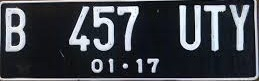
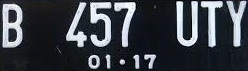
Working recognizer with low accuracy, not all chain code given

diff --git a/04-CarPlateRecognition/app/src/main/java/gatel/carplaterecognition/NumberRecognitionUtils.java b/04-CarPlateRecognition/app/src/main/java/gatel/carplaterecognition/NumberRecognitionUtils.java
@@ -8,7 +8,80 @@ import java.util.List;
 import java.util.Map;
 
 public class NumberRecognitionUtils {
-    private static final int[][] CHAIN_CODES = {{5, 5, 6, 6, 5, 6, 6, 6, 6, 6, 6, 7, 6, 6, 7, 7, 0, 0, 0, 0, 1, 1, 2, 2, 1, 2, 2, 2, 2, 2, 2, 3, 2, 2, 3, 3, 4, 4, 4, 4}, {5, 4, 4, 5, 4, 0, 0, 0, 0, 7, 6, 6, 6, 6, 6, 6, 6, 6, 6, 6, 6, 5, 4, 4, 4, 4, 6, 0, 0, 0, 0, 0, 0, 0, 0, 0, 0, 0, 2, 4, 4, 4, 4, 3, 2, 2, 2, 2, 2, 2, 2, 2, 2, 2, 2, 2, 2, 2, 4}, {5, 6, 0, 1, 0, 0, 0, 7, 7, 6, 6, 6, 5, 5, 5, 5, 5, 6, 5, 5, 6, 6, 0, 0, 0, 0, 0, 0, 0, 0, 2, 4, 4, 4, 4, 4, 3, 2, 1, 2, 1, 1, 1, 1, 1, 2, 2, 2, 2, 3, 3, 4, 4, 4, 4, 4}, {5, 6, 1, 0, 0, 0, 0, 7, 7, 6, 6, 5, 4, 5, 4, 4, 6, 0, 0, 0, 7, 7, 6, 6, 6, 5, 5, 4, 4, 4, 4, 3, 6, 6, 0, 0, 0, 0, 0, 1, 0, 2, 1, 2, 2, 2, 3, 3, 3, 1, 0, 1, 2, 2, 2, 3, 3, 4, 4, 4, 4, 4}, {5, 5, 6, 5, 5, 6, 5, 5, 5, 6, 6, 0, 0, 0, 0, 0, 0, 7, 6, 6, 6, 6, 0, 2, 2, 2, 2, 1, 0, 2, 4, 3, 2, 2, 2, 2, 2, 2, 2, 2, 2, 4}, {6, 6, 6, 6, 6, 6, 6, 0, 0, 0, 7, 7, 7, 6, 6, 6, 5, 5, 4, 4, 4, 3, 6, 6, 0, 0, 0, 0, 1, 0, 2, 1, 2, 2, 2, 2, 3, 3, 3, 4, 4, 3, 2, 2, 2, 1, 0, 0, 0, 0, 0, 2, 4, 4, 4, 4, 4, 4, 4}, {5, 5, 5, 6, 5, 6, 6, 6, 6, 6, 6, 6, 7, 6, 7, 7, 0, 0, 0, 0, 1, 1, 1, 2, 2, 2, 2, 3, 2, 4, 3, 4, 4, 4, 5, 5, 3, 2, 2, 1, 2, 1, 0, 1, 0, 0, 0, 7, 2, 3, 4, 4, 4, 4}, {6, 0, 0, 0, 0, 0, 0, 0, 7, 5, 5, 6, 5, 6, 5, 6, 5, 6, 5, 6, 5, 6, 6, 0, 2, 1, 2, 2, 1, 2, 1, 2, 1, 2, 1, 2, 1, 1, 2, 2, 4, 4, 4, 4, 4, 4, 4, 4, 4}, {5, 5, 6, 6, 6, 7, 7, 5, 5, 5, 6, 6, 6, 6, 7, 0, 7, 0, 0, 0, 0, 1, 0, 2, 1, 2, 2, 2, 3, 3, 3, 1, 2, 1, 2, 2, 3, 3, 4, 4, 4, 4}, {5, 5, 5, 6, 6, 6, 6, 7, 6, 0, 7, 0, 0, 0, 1, 1, 7, 6, 6, 5, 6, 5, 4, 5, 4, 4, 4, 3, 6, 7, 0, 0, 0, 0, 1, 1, 1, 2, 1, 2, 2, 2, 2, 2, 2, 2, 3, 2, 3, 3, 4, 4, 4, 4}};
+    private static final int[][] CHAIN_CODES = {
+        // 0
+        {6, 6, 6, 6, 6, 6, 6, 6, 6, 6, 6, 6, 6, 6, 6, 6, 6, 6, 6, 6, 7, 6, 7, 7, 0, 7, 0, 0, 0, 0, 1, 0, 1, 1, 2, 1, 2, 2, 2, 2, 2, 2, 2, 2, 2, 2, 2, 2, 2, 2, 2, 2, 2, 2, 2, 1, 2, 3, 3, 3, 4, 3, 4, 4, 4, 4, 4, 4, 5, 5, 5, 6, 5},
+        // 1
+        {6, 6, 6, 6, 6, 6, 6, 6, 7, 0, 1, 1, 0, 1, 1, 1, 7, 7, 6, 6, 6, 6, 6, 6, 6, 6, 6, 6, 6, 6, 6, 6, 6, 6, 6, 6, 6, 6, 6, 6, 6, 6, 6, 6, 6, 6, 6, 6, 6, 6, 6, 6, 6, 6, 6, 6, 6, 6, 6, 6, 6, 6, 6, 6, 6, 6, 6, 6, 6, 6, 6, 6, 6, 6, 6, 6, 6, 6, 6, 6, 6, 6, 6, 6, 6, 6, 6, 6, 7, 0, 0, 0, 0, 0, 0, 0, 1, 2, 2, 2, 2, 2, 2, 2, 2, 2, 2, 2, 2, 2, 2, 2, 2, 2, 2, 2, 2, 2, 2, 2, 2, 2, 2, 2, 2, 2, 2, 2, 2, 2, 2, 2, 2, 2, 2, 2, 2, 2, 2, 2, 2, 2, 2, 2, 2, 2, 2, 2, 2, 2, 2, 3, 2, 2, 2, 2, 2, 2, 2, 2, 2, 2, 2, 2, 2, 2, 2, 2, 2, 2, 2, 2, 2, 2, 2, 2, 2, 2, 2, 2, 3, 4, 4, 4, 4, 4, 4, 4, 4, 4, 5, 6, 5, 5, 5, 5, 4, 5, 5},
+        // 2
+        {5, 6, 0, 1, 0, 0, 0, 7, 7, 6, 6, 6, 5, 5, 5, 5, 5, 6, 5, 5, 6, 6, 0, 0, 0, 0, 0, 0, 0, 0, 2, 4, 4, 4, 4, 4, 3, 2, 1, 2, 1, 1, 1, 1, 1, 2, 2, 2, 2, 3, 3, 4, 4, 4, 4, 4},
+        // 3
+        {6, 6, 7, 0, 0, 0, 2, 1, 2, 1, 0, 7, 7, 7, 6, 6, 6, 6, 5, 5, 5, 6, 6, 7, 7, 7, 6, 6, 6, 6, 6, 5, 5, 4, 4, 3, 3, 2, 3, 4, 5, 6, 6, 6, 7, 7, 7, 0, 0, 0, 0, 0, 0, 1, 0, 1, 2, 1, 2, 2, 2, 2, 2, 2, 2, 3, 2, 2, 2, 1, 2, 1, 3, 2, 2, 2, 2, 3, 2, 2, 3, 3, 4, 3, 4, 4, 4, 5, 4, 4, 5, 6, 5, 5},
+        // 4
+        {6, 6, 6, 6, 7, 0, 0, 0, 0, 0, 0, 7, 7, 6, 6, 7, 0, 1, 2, 2, 1, 1, 2, 2, 2, 3, 3, 3, 4, 4, 5, 5, 3, 3, 2, 1, 2, 2, 1, 2, 1, 2, 1, 2, 2, 1, 2, 1, 2, 1, 2, 2, 2, 4, 4, 5, 5, 5, 6, 6, 5, 6, 6, 5, 6, 5, 6, 5, 6, 6, 5, 6, 5, 6, 5},
+        // 5
+        {6, 6, 6, 6, 6, 7, 0, 0, 1, 0, 0, 0, 7, 7, 6, 6, 5, 5, 5, 4, 4, 3, 3, 4, 6, 6, 7, 0, 7, 0, 0, 0, 1, 0, 1, 2, 1, 2, 2, 2, 3, 3, 3, 4, 4, 4, 3, 3, 2, 1, 0, 0, 0, 0, 0, 0, 1, 3, 4, 4, 4, 4, 4, 4, 4, 4, 5, 5},
+        // 6
+        {6, 6, 6, 6, 6, 6, 6, 6, 6, 6, 6, 6, 6, 6, 6, 6, 6, 6, 6, 6, 7, 6, 7, 7, 0, 0, 7, 0, 0, 1, 0, 1, 1, 1, 2, 2, 2, 2, 2, 2, 2, 2, 2, 2, 3, 3, 3, 4, 3, 4, 4, 4, 3, 3, 2, 1, 2, 2, 1, 1, 0, 7, 7, 7, 0, 0, 1, 2, 3, 2, 3, 3, 4, 4, 4, 4, 4, 4, 4, 5, 5, 6, 5},
+        // 7
+        {6, 7, 0, 0, 0, 0, 1, 0, 1, 0, 0, 0, 0, 0, 7, 7, 6, 5, 6, 6, 5, 5, 6, 6, 5, 6, 6, 6, 5, 6, 6, 6, 5, 6, 6, 6, 6, 6, 5, 6, 6, 6, 6, 6, 6, 6, 6, 6, 6, 6, 6, 7, 0, 0, 0, 1, 2, 2, 2, 2, 2, 2, 2, 2, 2, 2, 2, 2, 2, 1, 2, 2, 2, 2, 2, 1, 2, 2, 1, 2, 2, 2, 1, 2, 1, 2, 1, 2, 2, 1, 1, 2, 2, 2, 2, 2, 2, 3, 4, 4, 4, 4, 4, 4, 4, 4, 4, 4, 4, 4, 4, 4, 4, 4, 4, 4, 4, 6, 6, 6, 6, 5},
+        // 8
+        {6, 6, 6, 6, 6, 6, 6, 6, 6, 6, 6, 6, 6, 6, 6, 6, 6, 7, 6, 6, 7, 6, 7, 6, 7, 7, 7, 7, 6, 5, 5, 5, 6, 5, 6, 5, 6, 5, 6, 6, 6, 5, 6, 6, 6, 6, 6, 6, 6, 6, 6, 6, 7, 6, 6, 6, 6, 7, 6, 6, 7, 6, 7, 7, 7, 7, 7, 7, 7, 0, 7, 0, 7, 0, 0, 0, 0, 0, 0, 0, 0, 0, 0, 1, 0, 0, 1, 0, 1, 1, 0, 1, 1, 2, 1, 1, 2, 1, 2, 1, 2, 2, 2, 1, 2, 2, 2, 2, 2, 2, 2, 2, 2, 2, 2, 2, 3, 2, 2, 2, 3, 2, 2, 3, 2, 3, 3, 3, 3, 2, 2, 1, 2, 1, 1, 2, 1, 2, 1, 2, 2, 1, 2, 2, 2, 2, 2, 2, 2, 2, 2, 2, 2, 2, 2, 2, 2, 2, 3, 2, 2, 3, 2, 3, 2, 3, 3, 3, 3, 3, 4, 3, 4, 3, 4, 4, 3, 4, 4, 4, 4, 4, 4, 5, 4, 4, 4, 5, 4, 5, 4, 5, 5, 5, 5, 5, 5, 5, 6, 5, 6, 6, 5},
+        // 9
+        {6, 6, 6, 6, 6, 6, 7, 6, 6, 7, 7, 7, 0, 0, 0, 7, 0, 7, 7, 6, 6, 6, 5, 5, 4, 4, 4, 3, 3, 4, 4, 6, 6, 6, 7, 7, 7, 0, 0, 0, 0, 0, 1, 0, 1, 2, 1, 2, 2, 2, 2, 2, 2, 2, 2, 2, 2, 2, 2, 2, 2, 2, 2, 2, 2, 2, 3, 2, 3, 2, 3, 4, 4, 3, 4, 4, 5, 4, 4, 5, 6, 5, 5},
+        // A
+        {6, 6, 0, 0, 0, 0, 2, 2, 1, 1, 0, 0, 0, 7, 7, 7, 6, 7, 0, 1, 2, 2, 2, 3, 2, 2, 2, 3, 2, 2, 2, 3, 2, 2, 2, 3, 2, 2, 2, 2, 3, 2, 2, 2, 2, 3, 2, 3, 4, 4, 5, 6, 6, 6, 6, 5, 6, 6, 6, 6, 5, 6, 6, 6, 6, 5, 6, 6, 6, 6, 5, 6, 6, 6, 6, 5},
+        // B
+        {6, 6, 6, 6, 6, 6, 6, 6, 6, 6, 6, 6, 6, 6, 6, 6, 6, 6, 6, 6, 6, 6, 6, 6, 6, 6, 6, 6, 6, 6, 6, 6, 6, 6, 6, 6, 6, 6, 6, 6, 7, 0, 0, 0, 0, 0, 0, 0, 0, 0, 0, 1, 0, 1, 0, 1, 1, 2, 1, 2, 2, 2, 2, 2, 2, 2, 2, 2, 2, 2, 3, 3, 2, 2, 2, 2, 1, 2, 1, 2, 2, 2, 2, 2, 2, 2, 2, 2, 3, 2, 2, 3, 3, 3, 4, 4, 3, 4, 4, 4, 4, 4, 4, 4, 4, 4, 4, 5},
+        // C
+        {6, 6, 6, 6, 7, 6, 6, 6, 7, 7, 0, 7, 0, 0, 0, 0, 1, 0, 1, 1, 1, 2, 2, 2, 3, 4, 5, 6, 5, 5, 4, 4, 4, 3, 3, 2, 2, 2, 2, 2, 2, 2, 2, 2, 2, 2, 2, 2, 2, 2, 2, 2, 2, 1, 2, 1, 1, 1, 0, 7, 7, 7, 6, 7, 0, 1, 2, 2, 2, 3, 3, 3, 4, 3, 4, 4, 4, 5, 4, 5, 5, 5, 6, 5, 6, 6, 6, 6, 6, 6, 6, 6, 6, 6, 6, 6, 6, 6, 5},
+        // D
+        {6, 6, 6, 6, 6, 6, 6, 6, 6, 6, 6, 6, 6, 6, 6, 6, 6, 6, 6, 6, 6, 6, 6, 6, 6, 6, 6, 7, 0, 0, 0, 0, 0, 0, 0, 0, 0, 0, 1, 0, 2, 1, 2, 1, 2, 1, 2, 2, 2, 2, 2, 2, 2, 3, 2, 1, 2, 2, 2, 2, 2, 2, 2, 2, 2, 4, 3, 4, 4, 3, 3, 4, 4, 4, 3, 4, 4, 4, 4, 5, 5},
+        // E
+        {},
+        // F
+        {6, 6, 6, 6, 6, 6, 6, 6, 6, 6, 6, 6, 6, 6, 6, 6, 6, 6, 6, 0, 0, 1, 2, 2, 2, 2, 2, 2, 2, 2, 2, 1, 1, 1, 1, 0, 0, 7, 0, 0, 1, 1, 2, 3, 4, 4, 4, 4, 4, 4, 4, 3, 3, 2, 2, 2, 2, 2, 2, 2, 1, 1, 0, 0, 0, 0, 0, 0, 0, 1, 2, 3, 4, 4, 4, 4, 4, 4, 4, 4, 4, 4, 4, 5, 6, 6, 6, 6, 6, 6, 6, 6, 6, 6, 5},
+        // G
+        {6, 6, 6, 6, 6, 6, 6, 6, 6, 6, 6, 6, 6, 6, 6, 6, 6, 6, 6, 6, 7, 7, 7, 7, 0, 0, 0, 0, 0, 0, 1, 1, 1, 2, 1, 1, 2, 2, 2, 1, 2, 3, 4, 4, 4, 4, 4, 4, 5, 6, 7, 6, 7, 5, 6, 5, 4, 3, 2, 3, 2, 2, 2, 2, 2, 2, 2, 2, 2, 2, 2, 2, 2, 1, 3, 2, 1, 1, 7, 0, 7, 6, 6, 7, 0, 0, 0, 1, 2, 2, 2, 2, 1, 4, 3, 4, 4, 3, 3, 4, 4, 4, 4, 4, 5, 4, 5, 5, 6, 5},
+        // H
+        {},
+        // I
+        {},
+        // J
+        {6, 6, 6, 6, 6, 7, 6, 6, 6, 7, 6, 7, 6, 7, 7, 6, 7, 7, 7, 0, 7, 7, 0, 7, 0, 7, 0, 0, 0, 7, 0, 0, 0, 0, 0, 0, 0, 1, 0, 0, 0, 1, 0, 0, 1, 1, 0, 1, 1, 1, 1, 1, 1, 2, 1, 2, 1, 2, 2, 1, 2, 2, 2, 2, 2, 2, 2, 2, 2, 2, 2, 2, 2, 2, 2, 2, 2, 2, 2, 2, 2, 2, 2, 2, 2, 2, 2, 2, 2, 2, 2, 2, 2, 2, 2, 2, 2, 2, 2, 2, 2, 2, 2, 2, 2, 2, 2, 2, 2, 2, 2, 2, 2, 2, 2, 2, 2, 2, 2, 2, 2, 2, 2, 2, 2, 2, 2, 2, 2, 2, 3, 4, 4, 4, 4, 5, 6, 6, 6, 6, 6, 6, 6, 6, 6, 6, 6, 6, 6, 6, 6, 6, 6, 6, 6, 6, 6, 6, 6, 6, 6, 6, 6, 6, 6, 6, 6, 6, 6, 6, 6, 6, 6, 6, 6, 6, 6, 6, 6, 6, 6, 6, 6, 6, 6, 6, 6, 6, 6, 6, 6, 6, 6, 6, 6, 6, 6, 6, 6, 6, 6, 6, 6, 6, 6, 5, 6, 5, 6, 5, 5, 5, 5, 5, 5, 4, 5, 4, 4, 4, 5, 4, 4, 4, 4, 3, 4, 4, 4, 3, 4, 3, 3, 4, 3, 3, 2, 3, 3, 2, 3, 2, 2, 2, 2, 3, 2, 2, 3, 4, 4, 4, 4, 5},
+        // K
+        {6, 6, 6, 6, 6, 6, 6, 6, 6, 6, 6, 6, 6, 6, 6, 6, 6, 6, 6, 6, 6, 6, 6, 6, 6, 6, 6, 6, 6, 6, 6, 6, 6, 6, 6, 6, 6, 6, 6, 6, 6, 6, 6, 6, 6, 6, 6, 6, 6, 6, 6, 6, 6, 6, 6, 6, 6, 7, 6, 6, 6, 6, 6, 6, 6, 6, 6, 6, 6, 6, 6, 6, 6, 6, 6, 6, 6, 6, 6, 6, 6, 6, 6, 6, 7, 0, 0, 0, 0, 0, 0, 0, 1, 2, 2, 2, 2, 2, 2, 2, 2, 2, 2, 2, 2, 2, 2, 2, 2, 2, 2, 2, 2, 3, 2, 2, 2, 2, 2, 2, 2, 2, 2, 2, 2, 2, 1, 1, 1, 0, 0, 7, 7, 6, 7, 6, 7, 6, 7, 6, 7, 6, 6, 7, 6, 7, 6, 7, 6, 7, 6, 7, 6, 7, 6, 7, 6, 7, 6, 6, 7, 6, 7, 6, 7, 6, 7, 7, 0, 0, 0, 0, 0, 0, 0, 2, 2, 2, 3, 2, 2, 3, 2, 3, 2, 3, 2, 3, 2, 2, 3, 2, 3, 2, 3, 2, 3, 2, 3, 2, 3, 2, 2, 3, 2, 3, 2, 3, 2, 3, 2, 3, 2, 2, 3, 2, 3, 2, 3, 2, 2, 2, 2, 1, 2, 1, 2, 2, 1, 2, 2, 1, 2, 1, 2, 2, 1, 2, 2, 1, 2, 1, 2, 2, 1, 2, 2, 1, 2, 1, 2, 2, 1, 2, 2, 1, 2, 1, 2, 2, 2, 4, 4, 4, 4, 4, 4, 4, 4, 5, 6, 5, 6, 6, 5, 6, 6, 5, 6, 5, 6, 6, 5, 6, 6, 5, 6, 6, 5, 6, 5, 6, 6, 5, 6, 6, 5, 6, 5, 6, 6, 5, 6, 6, 5, 6, 5, 5, 4, 3, 2, 2, 2, 2, 2, 2, 2, 2, 2, 2, 2, 2, 2, 2, 2, 2, 2, 2, 2, 2, 2, 2, 2, 2, 2, 2, 2, 2, 3, 2, 2, 2, 2, 2, 2, 2, 2, 3, 4, 4, 4, 4, 4, 4, 5},
+        // L
+        {},
+        // M
+        {6, 6, 6, 6, 6, 6, 6, 6, 6, 6, 6, 6, 6, 6, 6, 6, 6, 6, 7, 6, 6, 6, 6, 6, 6, 6, 6, 6, 6, 6, 6, 6, 6, 6, 6, 6, 6, 6, 6, 6, 6, 7, 7, 0, 0, 0, 1, 2, 2, 2, 2, 2, 2, 2, 2, 2, 2, 2, 2, 2, 3, 2, 2, 2, 2, 2, 1, 0, 0, 7, 6, 6, 6, 7, 6, 6, 6, 7, 6, 6, 6, 6, 7, 1, 1, 2, 2, 2, 2, 2, 1, 2, 2, 2, 2, 2, 1, 1, 7, 7, 6, 6, 6, 6, 6, 6, 6, 6, 6, 6, 6, 6, 6, 6, 6, 6, 6, 6, 7, 0, 0, 0, 0, 1, 2, 2, 2, 2, 2, 2, 2, 2, 2, 2, 2, 3, 2, 2, 2, 2, 2, 2, 2, 2, 2, 2, 2, 2, 2, 2, 2, 2, 2, 2, 2, 2, 2, 2, 2, 2, 2, 2, 2, 3, 2, 3, 4, 4, 4, 4, 5, 6, 6, 6, 5, 6, 6, 6, 6, 6, 5, 6, 6, 6, 5, 6, 6, 6, 6, 5, 4, 4, 3, 2, 3, 2, 2, 3, 2, 2, 2, 3, 2, 2, 2, 2, 3, 2, 2, 2, 3, 3, 4, 4, 4, 4, 5},
+        // N
+        {},
+        // O
+        {},
+        // P
+        {6, 6, 6, 6, 6, 6, 6, 6, 6, 6, 6, 6, 6, 6, 6, 6, 6, 6, 6, 6, 6, 6, 6, 6, 6, 6, 7, 0, 0, 1, 3, 2, 2, 2, 2, 2, 2, 2, 2, 1, 1, 0, 0, 1, 0, 0, 1, 1, 0, 1, 2, 3, 2, 2, 2, 2, 2, 3, 2, 3, 3, 3, 4, 4, 4, 4, 4, 4, 4, 4, 5},
+        // Q
+        {},
+        // R
+        {},
+        // S
+        {6, 6, 6, 6, 7, 6, 6, 6, 6, 7, 6, 6, 7, 7, 6, 7, 7, 7, 6, 7, 7, 7, 7, 6, 7, 7, 7, 7, 7, 7, 7, 7, 7, 6, 7, 7, 7, 7, 7, 7, 7, 6, 7, 7, 7, 7, 6, 6, 7, 6, 6, 6, 6, 6, 5, 6, 6, 5, 5, 5, 5, 5, 4, 5, 4, 4, 4, 4, 4, 3, 4, 3, 4, 3, 3, 2, 3, 2, 3, 2, 2, 2, 3, 3, 4, 4, 4, 4, 5, 4, 5, 6, 6, 6, 7, 6, 6, 6, 7, 6, 7, 6, 7, 7, 7, 7, 7, 7, 0, 7, 0, 7, 0, 0, 0, 7, 0, 0, 0, 1, 0, 0, 0, 0, 0, 1, 0, 1, 0, 1, 1, 1, 1, 1, 1, 2, 1, 2, 1, 2, 2, 2, 2, 2, 2, 2, 2, 2, 2, 2, 2, 2, 3, 2, 2, 3, 2, 3, 3, 2, 3, 3, 3, 3, 3, 3, 2, 3, 3, 3, 3, 3, 3, 3, 2, 3, 3, 3, 3, 3, 3, 2, 3, 3, 3, 3, 2, 3, 3, 2, 3, 2, 3, 2, 2, 2, 2, 2, 1, 2, 2, 1, 1, 1, 0, 1, 0, 0, 0, 0, 0, 0, 0, 0, 7, 0, 7, 7, 7, 7, 6, 6, 7, 6, 6, 7, 6, 7, 0, 0, 0, 0, 0, 0, 1, 2, 2, 2, 2, 2, 3, 2, 2, 3, 2, 3, 2, 3, 2, 3, 3, 3, 3, 4, 3, 4, 3, 4, 4, 3, 4, 4, 4, 4, 4, 4, 4, 5, 4, 4, 4, 5, 4, 5, 4, 5, 4, 5, 5, 5, 6, 5, 5, 6, 5, 6, 6, 6, 5},
+        // T
+        {6, 6, 7, 0, 0, 0, 0, 0, 7, 7, 6, 6, 6, 6, 6, 6, 6, 6, 6, 6, 6, 6, 6, 6, 6, 6, 6, 6, 6, 6, 6, 6, 6, 6, 6, 6, 6, 6, 6, 6, 6, 6, 6, 6, 6, 6, 7, 7, 0, 1, 1, 2, 2, 2, 2, 2, 2, 2, 2, 2, 2, 2, 2, 2, 2, 2, 2, 2, 2, 2, 2, 2, 2, 2, 2, 2, 2, 2, 2, 2, 2, 2, 2, 2, 2, 2, 2, 1, 0, 1, 7, 1, 0, 1, 2, 2, 2, 3, 4, 4, 4, 5, 4, 4, 4, 4, 4, 4, 4, 4, 4, 4, 4, 4, 4, 4, 5},
+        // U
+        {6, 6, 6, 6, 6, 6, 6, 6, 6, 6, 6, 6, 6, 6, 6, 6, 6, 6, 6, 6, 6, 6, 6, 6, 6, 6, 6, 6, 6, 6, 6, 6, 6, 6, 6, 7, 6, 6, 6, 6, 6, 6, 6, 6, 6, 6, 6, 6, 6, 6, 6, 6, 6, 6, 6, 6, 6, 6, 6, 6, 6, 6, 6, 6, 6, 6, 7, 6, 6, 7, 6, 6, 7, 7, 6, 7, 7, 7, 7, 7, 0, 7, 0, 7, 0, 7, 0, 0, 0, 0, 0, 0, 0, 0, 0, 1, 0, 0, 1, 1, 0, 1, 0, 1, 1, 1, 2, 1, 1, 2, 1, 2, 2, 1, 2, 2, 2, 2, 2, 2, 2, 2, 2, 2, 2, 2, 2, 2, 2, 2, 2, 2, 2, 2, 2, 2, 2, 2, 2, 2, 2, 2, 2, 2, 2, 2, 2, 2, 2, 2, 2, 2, 2, 2, 2, 3, 2, 2, 2, 2, 2, 2, 2, 2, 2, 2, 2, 2, 2, 2, 2, 2, 2, 2, 2, 2, 2, 2, 2, 2, 2, 2, 2, 3, 4, 4, 4, 4, 4, 4, 4, 5, 6, 6, 6, 6, 6, 6, 6, 6, 6, 6, 6, 6, 6, 6, 6, 6, 6, 6, 6, 6, 6, 7, 6, 6, 6, 6, 6, 6, 6, 6, 6, 6, 6, 6, 6, 6, 6, 6, 6, 6, 6, 6, 6, 6, 6, 6, 6, 6, 6, 6, 6, 6, 6, 6, 6, 6, 6, 6, 6, 6, 6, 6, 6, 6, 6, 6, 6, 6, 5, 6, 5, 5, 5, 5, 5, 4, 4, 4, 4, 4, 4, 4, 4, 3, 4, 3, 3, 3, 2, 3, 2, 3, 2, 2, 2, 2, 2, 2, 2, 2, 2, 2, 2, 2, 2, 2, 2, 2, 2, 2, 2, 2, 2, 3, 2, 2, 2, 2, 2, 2, 2, 2, 2, 2, 2, 2, 2, 2, 2, 2, 2, 2, 2, 2, 2, 2, 2, 2, 2, 2, 2, 2, 2, 2, 2, 2, 2, 2, 2, 2, 2, 2, 2, 2, 2, 2, 2, 2, 2, 3, 4, 4, 4, 4, 4, 5, 4, 5},
+        // V
+        {},
+        // W
+        {},
+        // X
+        {},
+        // Y
+        {6, 7, 6, 6, 7, 6, 6, 7, 6, 6, 7, 6, 6, 7, 6, 6, 7, 6, 7, 6, 6, 6, 6, 6, 6, 6, 6, 6, 6, 6, 6, 6, 6, 6, 6, 6, 6, 6, 6, 6, 6, 6, 7, 0, 0, 0, 1, 2, 2, 2, 2, 2, 2, 2, 2, 2, 2, 2, 2, 2, 2, 2, 2, 2, 2, 2, 2, 2, 2, 2, 2, 1, 2, 2, 1, 2, 2, 1, 2, 2, 1, 2, 2, 2, 1, 2, 2, 1, 2, 3, 4, 4, 4, 5, 6, 6, 6, 6, 5, 6, 6, 6, 5, 6, 5, 4, 4, 3, 2, 3, 2, 2, 3, 2, 2, 2, 2, 3, 3, 4, 4, 5},
+        // Z
+        {}
+    };
     private static Map<Integer, List<Integer>> CHAIN_CODE_MAP = new HashMap<>();
     static {
         for (int i = 0; i < CHAIN_CODES.length; ++i) {

diff --git a/04-CarPlateRecognition/app/src/main/java/gatel/carplaterecognition/MainActivity.java b/04-CarPlateRecognition/app/src/main/java/gatel/carplaterecognition/MainActivity.java
@@ -4,7 +4,9 @@ import android.app.Activity;
 import android.content.Intent;
 import android.graphics.Bitmap;
 import android.graphics.BitmapFactory;
+import android.net.Uri;
 import android.os.Bundle;
+import android.os.Environment;
 import android.text.Editable;
 import android.text.TextWatcher;
 import android.util.Log;
@@ -13,11 +15,16 @@ import android.widget.EditText;
 import android.widget.ImageView;
 import android.widget.TextView;
 
+import java.io.ByteArrayOutputStream;
+import java.io.File;
 import java.io.FileNotFoundException;
+import java.io.FileOutputStream;
 import java.io.IOException;
 import java.io.InputStream;
+import java.util.ArrayList;
 import java.util.List;
 import java.util.Objects;
+import java.util.Random;
 
 public class MainActivity extends Activity {
 
@@ -88,13 +95,45 @@ public class MainActivity extends Activity {
                 ImageUtils.calculateThreshold(bitmap);
 
                 Bitmap binaryBitmap = ImageUtils.getBinaryImage(bitmap);
-                inputImage.setImageBitmap(binaryBitmap);
+                inputImage.setImageBitmap(bitmap);
 
                 final TextView blackThreshold = (TextView) findViewById(R.id.whiteThreshold);
                 blackThreshold.setText(Integer.toString(PatternRecognizerUtils.BLACK_THRESHOLD));
 
-//                List<Integer> recognizedValues = NumberRecognitionUtils.recognizeBitmap(binaryBitmap);
-//                numRec.setText(Objects.toString(recognizedValues));
+                List<Integer> recognizedValues = NumberRecognitionUtils.recognizeBitmap(binaryBitmap);
+                List<String> realValues = new ArrayList<>();
+                for(int i = 0; i < recognizedValues.size(); ++i) {
+                    switch (recognizedValues.get(i)) {
+                        case 10 : realValues.add("A"); break;
+                        case 11 : realValues.add("B"); break;
+                        case 12 : realValues.add("C"); break;
+                        case 13 : realValues.add("D"); break;
+                        case 14 : realValues.add("E"); break;
+                        case 15 : realValues.add("F"); break;
+                        case 16 : realValues.add("G"); break;
+                        case 17 : realValues.add("H"); break;
+                        case 18 : realValues.add("I"); break;
+                        case 19 : realValues.add("J"); break;
+                        case 20 : realValues.add("K"); break;
+                        case 21 : realValues.add("L"); break;
+                        case 22 : realValues.add("M"); break;
+                        case 23 : realValues.add("N"); break;
+                        case 24 : realValues.add("O"); break;
+                        case 25 : realValues.add("P"); break;
+                        case 26 : realValues.add("Q"); break;
+                        case 27 : realValues.add("R"); break;
+                        case 28 : realValues.add("S"); break;
+                        case 29 : realValues.add("T"); break;
+                        case 30 : realValues.add("U"); break;
+                        case 31 : realValues.add("V"); break;
+                        case 32 : realValues.add("W"); break;
+                        case 33 : realValues.add("X"); break;
+                        case 34 : realValues.add("Y"); break;
+                        case 35 : realValues.add("Z"); break;
+                        default : realValues.add(recognizedValues.get(i).toString());
+                    }
+                }
+                numRec.setText(Objects.toString(realValues));
             } catch (FileNotFoundException e) {
                 e.printStackTrace();
             } finally {

diff --git a/04-CarPlateRecognition/app/src/main/java/gatel/carplaterecognition/PatternRecognizer.java b/04-CarPlateRecognition/app/src/main/java/gatel/carplaterecognition/PatternRecognizer.java
@@ -33,7 +33,7 @@ public class PatternRecognizer {
         for (int x = 0; x < width; ++x) {
             for (int y = 0; y < height; ++y) {
                 int offset = x + y * width;
-                if (PatternRecognizerUtils.isBlack(pixels[offset])) {
+                if (PatternRecognizerUtils.isWhite(pixels[offset])) {
                     try {
                         List<Integer> chainCode = chainCodeGenerator.generateChainCode(x, y);
                         chainCodes.add(chainCode);
@@ -57,7 +57,7 @@ public class PatternRecognizer {
         Stack<Integer> stack = new Stack<>();
         int offset = startY * width + startX;
         stack.push(offset);
-        pixels[offset] = PatternRecognizerUtils.WHITE;
+        pixels[offset] = PatternRecognizerUtils.BLACK;
         while (!stack.empty()) {
             int top = stack.pop();
             int x = top % width;
@@ -68,9 +68,9 @@ public class PatternRecognizer {
                         continue;
                     }
                     int newOffset = iy * width + ix;
-                    if (PatternRecognizerUtils.isBlack(pixels[newOffset])) {
+                    if (PatternRecognizerUtils.isWhite(pixels[newOffset])) {
                         stack.push(newOffset);
-                        pixels[newOffset] = PatternRecognizerUtils.WHITE;
+                        pixels[newOffset] = PatternRecognizerUtils.BLACK;
                     }
                 }
             }

diff --git a/04-CarPlateRecognition/app/src/main/java/gatel/carplaterecognition/ImageUtils.java b/04-CarPlateRecognition/app/src/main/java/gatel/carplaterecognition/ImageUtils.java
@@ -18,9 +18,8 @@ public class ImageUtils {
             for (int y = 0; y < image.getHeight(); ++y) {
                 int color = image.getPixel(x, y);
                 int average = ((getRed(color) + getGreen(color) + getBlue(color))/3) * GRAYSCALE_MASK;
+                binaryBitmap.setPixel(x, y, 0);
                 if(PatternRecognizerUtils.isWhite(average)) {
-                    binaryBitmap.setPixel(x, y, 0);
-                } else {
                     binaryBitmap.setPixel(x, y, 0x00FFFFFF);
                 }
             }

diff --git a/04-CarPlateRecognition/app/src/main/java/gatel/carplaterecognition/PatternRecognizerUtils.java b/04-CarPlateRecognition/app/src/main/java/gatel/carplaterecognition/PatternRecognizerUtils.java
@@ -9,6 +9,7 @@ public class PatternRecognizerUtils {
 
     public static int BLACK_THRESHOLD = 0x30;
     public static final int WHITE = 0x00FFFFFF;
+    public static final int BLACK = 0;
 
     private PatternRecognizerUtils() {
         // Utility class
